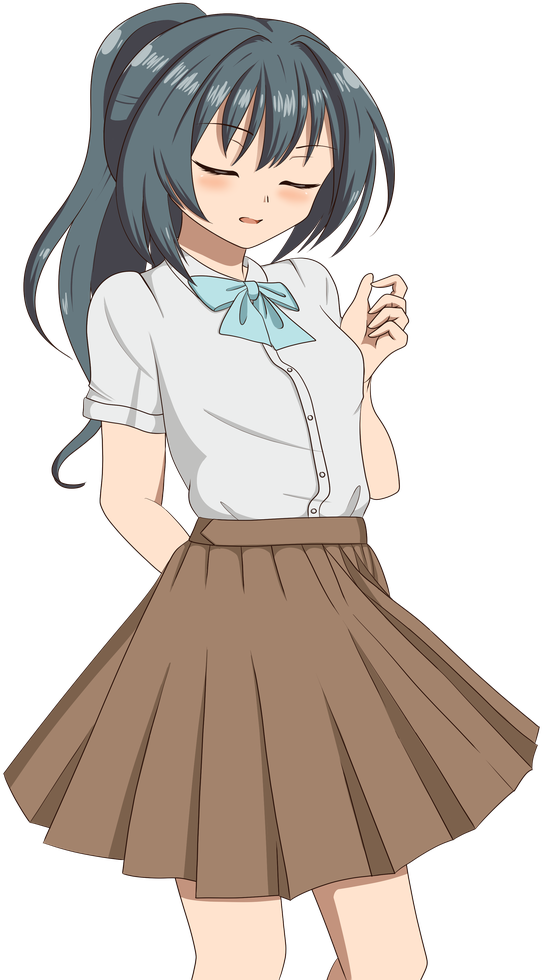
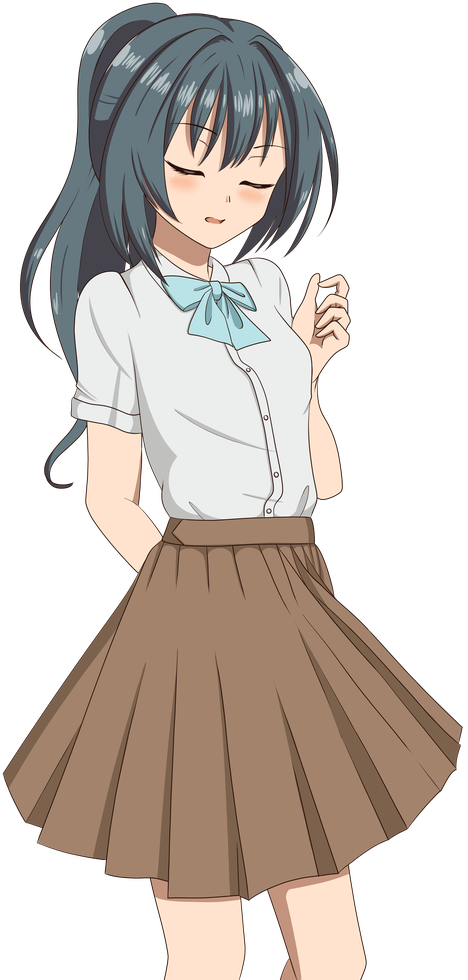
demo work successfully, scale female01 summer pics

Changed region(s): [[0.6581, 0.4286, 0.688, 0.4592], [0.2991, 0.4592, 0.3291, 0.4898], [0.0897, 0.2755, 0.1197, 0.3061]]

diff --git a/src/labels/startLabel.ts b/src/labels/startLabel.ts
@@ -87,11 +87,11 @@ const startLabel = newLabel(
             narration.dialogue = { character: james, text: `I know you're both watching, come on out already!` };
         },
         async () => {
-            await showImageContainer("james", ["m01-body", "m01-eyes-annoy", "m01-mouth-annoy00"]);
+            await showImageContainer("james", ["main_Frown"]);
             await moveIn(
                 "sly",
                 {
-                    value: ["fm01-body", "fm01-eyes-wow", "fm01-mouth-soft01"],
+                    value: ["fm01_summer_Open"],
                     options: { xAlign: 0.2, yAlign: 1 },
                 },
                 { direction: "right", ease: "anticipate" }
@@ -99,7 +99,7 @@ const startLabel = newLabel(
             await moveIn(
                 "steph",
                 {
-                    value: ["fm02-body", "fm02-eyes-nervous", "fm02-mouth-nervous00"],
+                    value: ["fm02_uniform_Open"],
                     options: { xAlign: 0.8, yAlign: 1 },
                 },
                 { direction: "left", ease: "easeInOut" }
@@ -107,48 +107,48 @@ const startLabel = newLabel(
             narration.dialogue = { character: sly, text: `I just wanted to see what the new guy was like.` };
         },
         async () => {
-            await showImageContainer("sly", ["fm01-body", "fm01-eyes-upset", "fm01-mouth-smile01"]);
+            await showImageContainer("sly", ["fm01_summer_Frown"]);
             narration.dialogGlue = true;
             narration.dialogue = `<span class="inline-block motion-translate-y-loop-25">Hey</span>, you, ${mc.name}- be nice to our little brother,`;
         },
         async () => {
-            await showImageContainer("sly", ["fm01-body", "fm01-eyes-smile", "fm01-mouth-grin00"]);
+            await showImageContainer("sly", ["fm01_summer_Smile"]);
             narration.dialogGlue = true;
             narration.dialogue = `or you'll have to deal with *us*.`;
         },
         async () => {
-            await showImageContainer("james", ["m01-body", "m01-eyes-smile", "m01-mouth-neutral00"]);
-            await showImageContainer("sly", ["fm01-body", "fm01-eyes-grin", "fm01-mouth-grin00"]);
-            await showImageContainer("steph", ["fm02-body", "fm02-eyes-nervous", "fm02-mouth-smile00"]);
+            await showImageContainer("james", ["main_Frown"]);
+            await showImageContainer("sly", ["fm01_summer_Smile"]);
+            await showImageContainer("steph", ["fm02_uniform_Smile"]);
             narration.dialogue = { character: mc, text: `...` };
         },
         async () => {
-            await showImageContainer("james", ["m01-body", "m01-eyes-smile", "m01-mouth-smile01"]);
-            await showImageContainer("sly", ["fm01-body", "fm01-eyes-smile", "fm01-mouth-smile00"]);
+            await showImageContainer("james", ["main_Smile"]);
+            await showImageContainer("sly", ["fm01_summer_Smile"]);
             narration.dialogue = { character: james, text: `${mc.name}, this is ${sly.name}.` };
         },
         async () => {
-            await showImageContainer("sly", ["fm01-body", "fm01-eyes-upset", "fm01-mouth-smile00"]);
-            await showImageContainer("steph", ["fm02-body", "fm02-eyes-joy", "fm02-mouth-smile00"]);
+            await showImageContainer("sly", ["fm01_summer_Frown"]);
+            await showImageContainer("steph", ["fm02_uniform_Smile"]);
             narration.dialogGlue = true;
             narration.dialogue = `Yes, that is her real name.`;
         },
         async () => {
-            await showImageContainer("james", ["m01-body", "m01-eyes-grin", "m01-mouth-smile00"]);
+            await showImageContainer("james", ["main_Frown"]);
             narration.dialogue = `I put out my hand.`;
         },
         async () => {
-            await showImageContainer("james", ["m01-body", "m01-eyes-grin", "m01-mouth-grin00"]);
-            await showImageContainer("sly", ["fm01-body", "fm01-eyes-upset", "fm01-mouth-upset01"]);
-            await showImageContainer("steph", ["fm02-body", "fm02-eyes-wow", "fm02-mouth-nervous00"]);
+            await showImageContainer("james", ["main_Frown"]);
+            await showImageContainer("sly", ["fm01_summer_Frown"]);
+            await showImageContainer("steph", ["fm02_uniform_Open"]);
             narration.dialogue = {
                 character: sly,
                 text: `I'm not shakin' your hand until I decide you're an all-right dude.`,
             };
         },
         async () => {
-            await showImageContainer("sly", ["fm01-body", "fm01-eyes-grin", "fm01-mouth-serious01"]);
-            await showImageContainer("steph", ["fm02-body", "fm02-eyes-nervous", "fm02-mouth-nervous00"]);
+            await showImageContainer("sly", ["fm01_summer_Open"]);
+            await showImageContainer("steph", ["fm02_uniform_Open"]);
             narration.dialogGlue = true;
             narration.dialogue = `Sorry, policy.`;
         },
